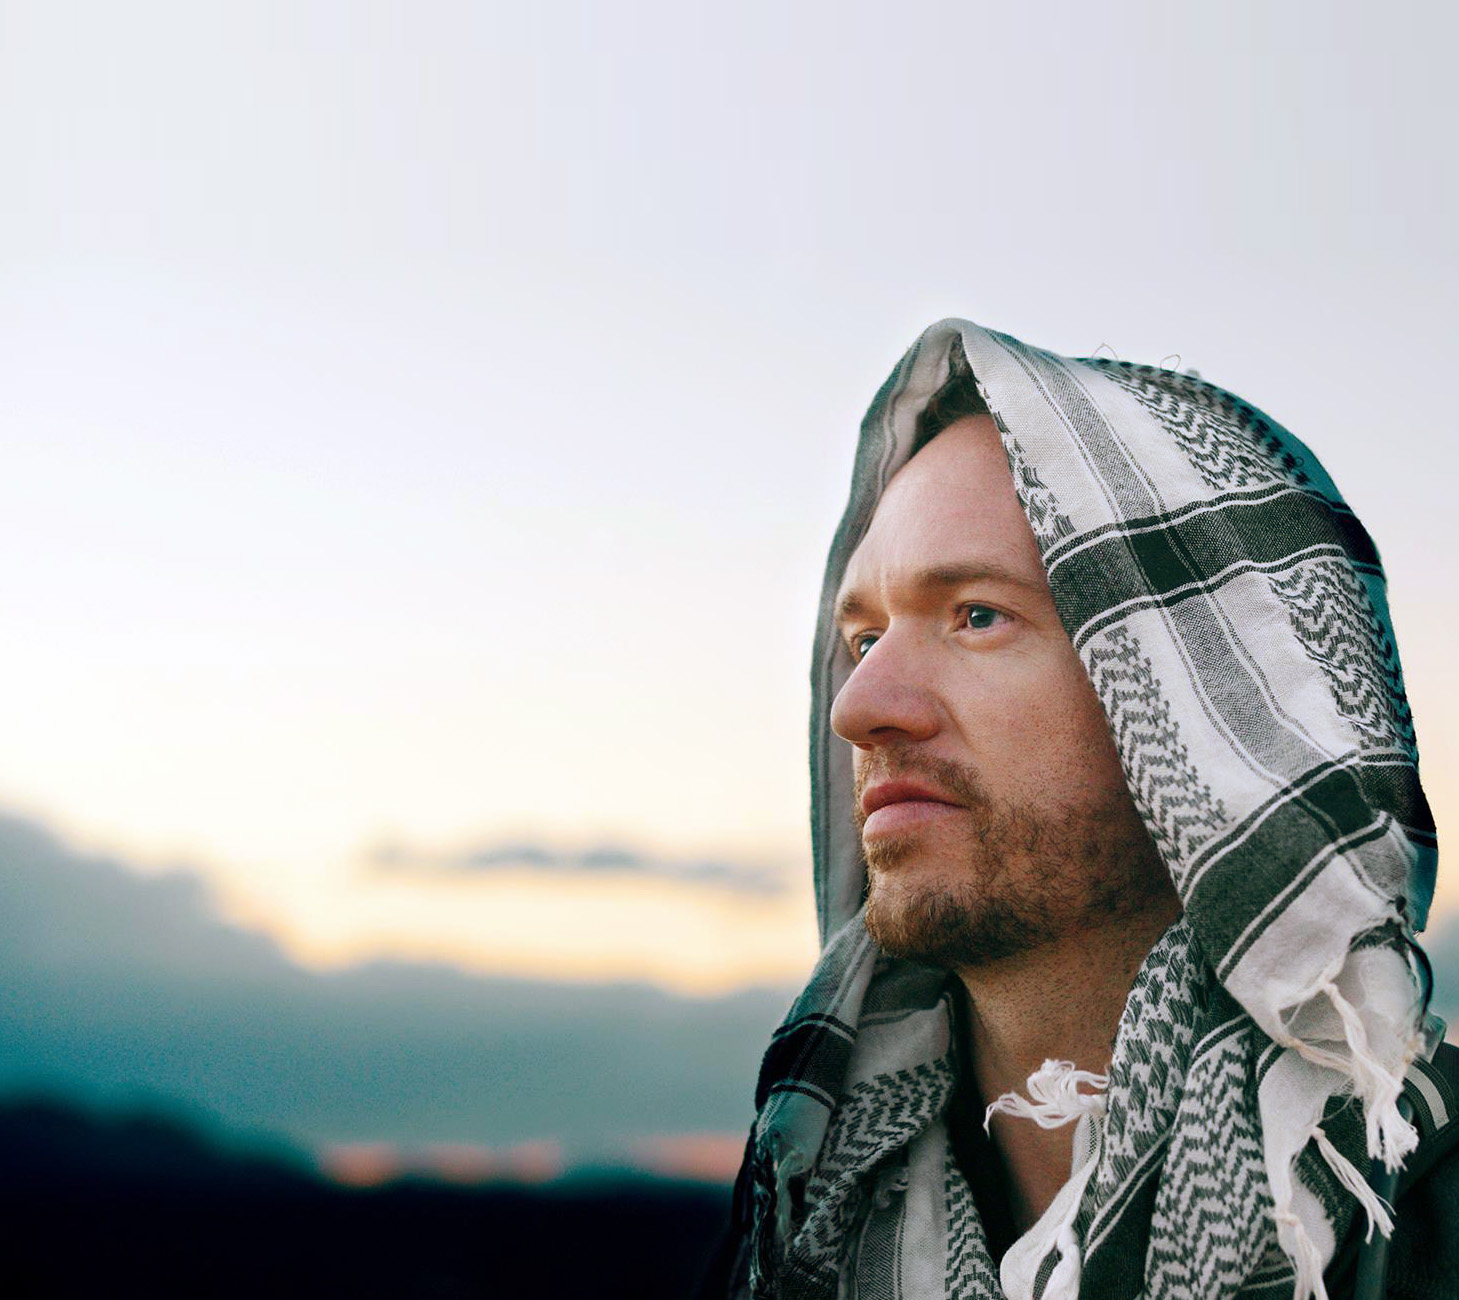
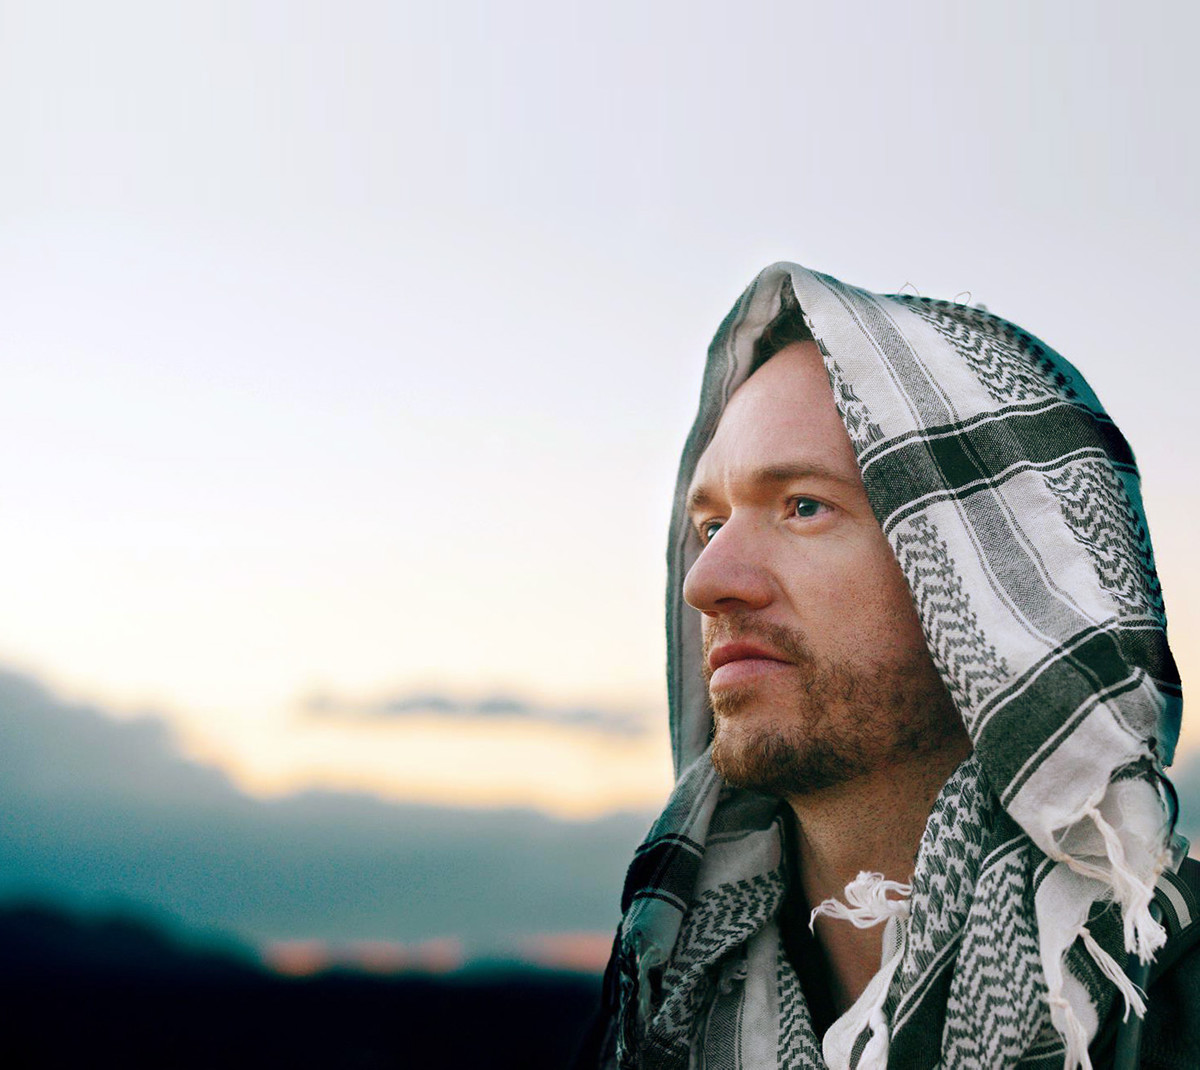
Adjusted hero image and text and fixed the spacing on the titles at mobile sizes

diff --git a/index.html b/index.html
@@ -86,7 +86,7 @@
 										<div class="aboutblocktext">
 											<p class="jobtitle">Product Designer</p>
 											<p class="jobyears">2014 - Present</p><br>
-											<span>I joined <a href="http://pivotal.io/labs" class="aboutlinks">Pivotal</a> for the unique opportunity to both work alongside developers and see a variety of client and verticals. Read more about the day in a life of a Pivotal designer <a href="https://medium.com/product-labs/a-day-in-the-life-of-a-product-designer-at-pivotal-labs-9b3ee049a0c6" class="aboutlinks">here</a>.</span>
+											<span>I joined <a href="http://pivotal.io/labs" class="aboutlinks">Pivotal</a> for the unique opportunity to both work alongside developers and see a variety of clients and verticals. Read more about the day in a life of a Pivotal designer <a href="https://medium.com/product-labs/a-day-in-the-life-of-a-product-designer-at-pivotal-labs-9b3ee049a0c6" class="aboutlinks">here</a>.</span>
 										</div>
 									
 									</div>
@@ -99,7 +99,7 @@
 									    <td class="tabletext">
 											<p class="jobtitle">Product Designer</p>
 											<p class="jobyears">2014 - Present</p>
-										<span>I joined <a href="http://pivotal.io/labs" class="aboutlinks">Pivotal</a> for the unique opportunity to both work alongside developers and see a variety of client and verticals. Read more about the day in a life of a Pivotal designer <a href="https://medium.com/product-labs/a-day-in-the-life-of-a-product-designer-at-pivotal-labs-9b3ee049a0c6" class="aboutlinks">here</a>.</span>
+										<span>I joined <a href="http://pivotal.io/labs" class="aboutlinks">Pivotal</a> for the unique opportunity to both work alongside developers and see a variety of clients and verticals. Read more about the day in a life of a Pivotal designer <a href="https://medium.com/product-labs/a-day-in-the-life-of-a-product-designer-at-pivotal-labs-9b3ee049a0c6" class="aboutlinks">here</a>.</span>
 									    </td>							    
 									    </tr>
 									    </table>

diff --git a/css/styles.css b/css/styles.css
@@ -831,7 +831,7 @@ MEDIA QUERIES
     }
 
     .hero-text h1 {
-        font-size: 6rem;
+        font-size: 4.8rem;
         font-family: 'montserratbold', Arial;
         font-weight: normal;
         letter-spacing: 0;
@@ -849,24 +849,6 @@ MEDIA QUERIES
         height: 70rem;
     }
 
-
-    .cta-wrapper {
-        background-color: #0077A3;
-        width: 130px;
-        height: 24px;
-        font-size: 1.2rem;
-        line-height: 2.3rem;
-        font-family: 'montserratlight', Arial;
-        text-transform: uppercase;
-        text-align: center;
-        margin: 2rem 0 0 0;
-    }
-
-    .cta-button:hover {
-        background-color: #DD2365;
-        width: 130px;
-        height: 24px;
-    }
 
     .projectssectionheader {
         margin-bottom: 0rem;
@@ -930,6 +912,8 @@ MEDIA QUERIES
         height: 45rem;
     }
 
+
+
 	.topsection {
 	    font-size: 4.5rem;
         padding-top: 3rem;
@@ -940,17 +924,35 @@ MEDIA QUERIES
     }
 
     .hero-text h1 {
-        font-size: 2.4rem;
+        font-size: 3.0rem;
         font-family: 'montserratbold', Arial;
         font-weight: normal;
         letter-spacing: 0;
     }
 
     .hero-text h3 {
-        font-size: 1.2rem;
+        font-size: 1.4rem;
         font-family: 'montserratlight', Arial;
         font-weight: 100;
         letter-spacing: 0;
+    }
+
+    .cta-wrapper {
+        background-color: #0077A3;
+        width: 130px;
+        height: 24px;
+        font-size: 1.2rem;
+        line-height: 2.3rem;
+        font-family: 'montserratlight', Arial;
+        text-transform: uppercase;
+        text-align: center;
+        margin: 2rem 0 0 0;
+    }
+
+    .cta-button:hover {
+        background-color: #DD2365;
+        width: 130px;
+        height: 24px;
     }
 
     .aboutmewide {
@@ -1015,7 +1017,7 @@ MEDIA QUERIES
 
     .topsection {
         padding: 20px 0;
-        background-image: url(../img/scarf_tall.jpg);
+        background-image: url(../img/scarf_crop.jpg);
         background-size: cover;
     }
 
